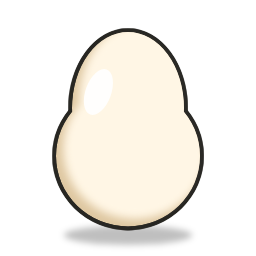
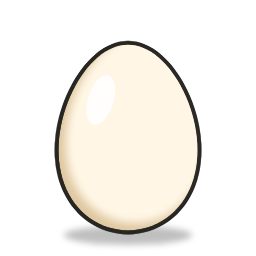
Слова: третя порція (10 нових), нове яйце
- БАНАН, ПІЦА, ШАПКА, ЗУБ, ОКО, МАК, ЛИСТ, ПАВУК, ЛАМПА, КИТ — з картинками
- pic-egg перемальовано: справжня форма яйця замість груші

Changed region(s): [[0.1875, 0.0938, 0.8125, 0.7812], [0.2812, 0.7812, 0.7188, 0.9375]]

diff --git a/src/content/words.js b/src/content/words.js
@@ -25,3 +25,15 @@ Game.registerWord({ word: 'ЯЙЦЕ',  image: 'pic-egg' });
 Game.registerWord({ word: 'ТОРТ',  image: 'pic-cake' });
 Game.registerWord({ word: 'КЛЮЧ',  image: 'pic-key' });
 Game.registerWord({ word: 'ЧАШКА', image: 'pic-cup' });
+
+// Третя порція.
+Game.registerWord({ word: 'БАНАН', image: 'pic-banana' });
+Game.registerWord({ word: 'ПІЦА',  image: 'pic-pizza' });
+Game.registerWord({ word: 'ШАПКА', image: 'pic-hat' });
+Game.registerWord({ word: 'ЗУБ',   image: 'pic-tooth' });
+Game.registerWord({ word: 'ОКО',   image: 'pic-eye' });
+Game.registerWord({ word: 'МАК',   image: 'pic-poppy' });
+Game.registerWord({ word: 'ЛИСТ',  image: 'pic-leaf' });
+Game.registerWord({ word: 'ПАВУК', image: 'pic-spider' });
+Game.registerWord({ word: 'ЛАМПА', image: 'pic-lamp' });
+Game.registerWord({ word: 'КИТ',   image: 'pic-whale' });

diff --git a/skin/skin.js b/skin/skin.js
@@ -70,7 +70,8 @@
 
   // ─── Картинки до слів (src/content/words.js) ────────────────────────
   ['sun', 'fish', 'house', 'beetle', 'mushroom', 'star', 'cloud', 'heart', 'ball', 'boat',
-   'cat', 'owl', 'frog', 'pear', 'cherry', 'lemon', 'watermelon', 'cheese', 'egg', 'cake', 'key', 'cup']
+   'cat', 'owl', 'frog', 'pear', 'cherry', 'lemon', 'watermelon', 'cheese', 'egg', 'cake', 'key', 'cup',
+   'banana', 'pizza', 'hat', 'tooth', 'eye', 'poppy', 'leaf', 'spider', 'lamp', 'whale']
     .forEach(function (name) { add('pic-' + name); });
 
   // ─── Звуки ──────────────────────────────────────────────────────────
